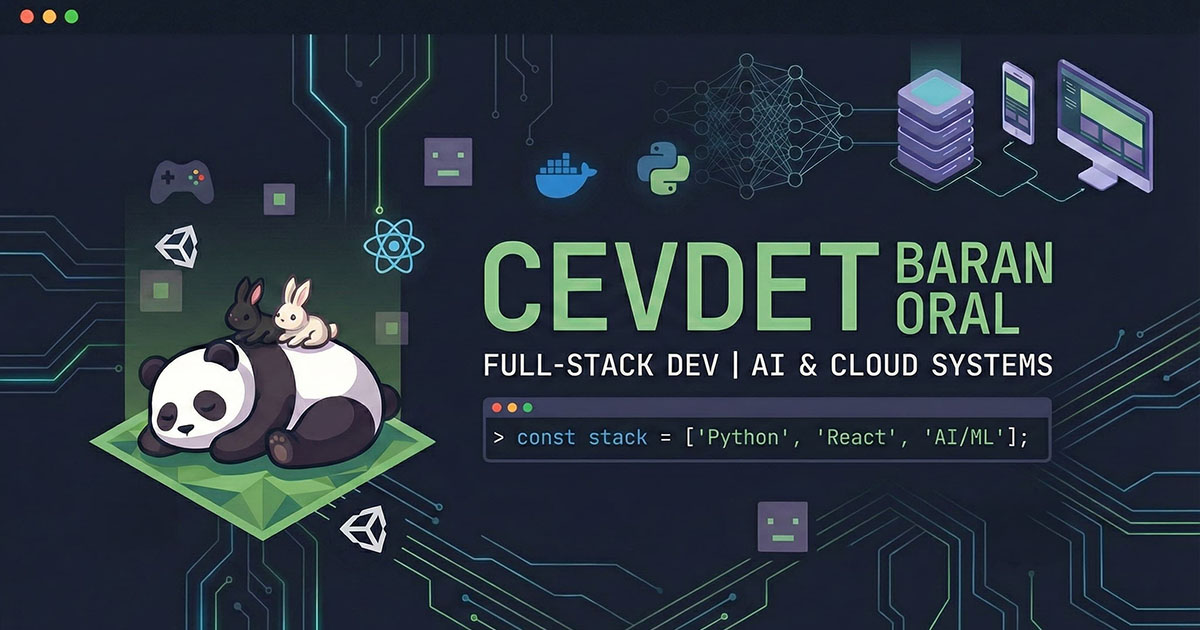
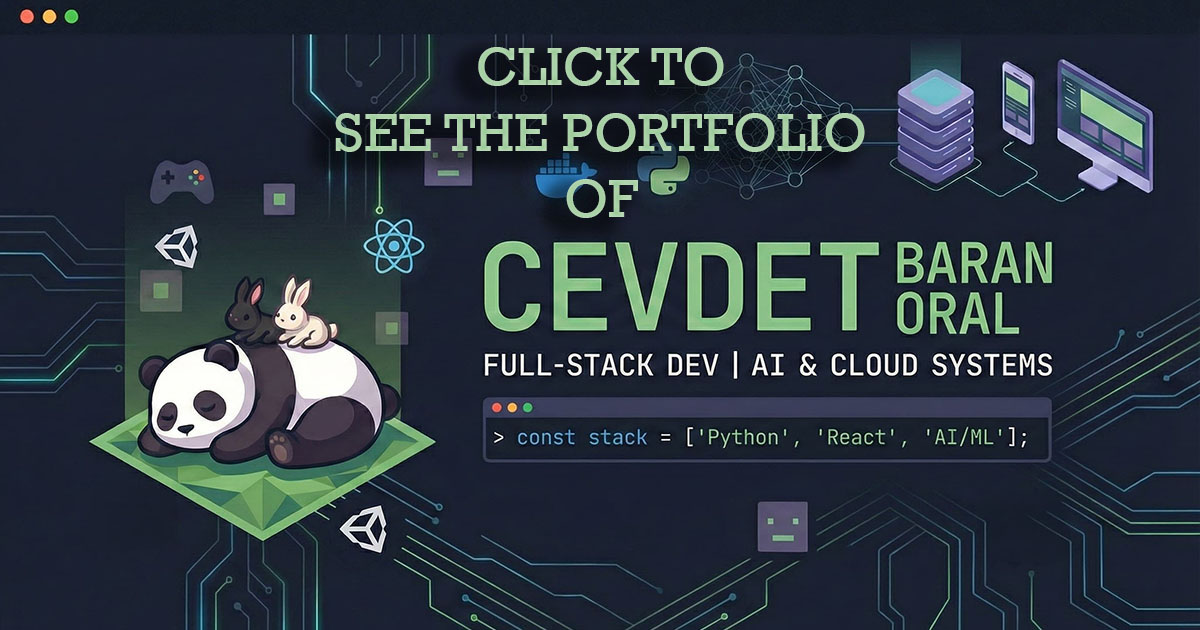
final adjustments

Changed region(s): [[0.2467, 0.181, 0.74, 0.3619], [0.37, 0.0603, 0.6167, 0.1508]]

diff --git a/index.html b/index.html
@@ -29,13 +29,13 @@
     <!-- the big headline on social share cards -->
     <meta
       property="og:title"
-      content="Cevdet Baran Oral - Full-Stack Developer & Solution Architect"
+      content="Cevdet Baran Oral - Full-Stack Developer & Cloud Systems"
     />
 
     <!-- text that goes under the title when sharing -->
     <meta
       property="og:description"
-      content="SaaS platforms, AI products & cloud systems. React · Node.js · Python · AWS. Teknofest finalist, two degrees by 22, 26+ projects shipped."
+      content="Full-stack developer portfolio - SaaS, AI products, and cloud systems. React, Node.js, Python, AWS. Teknofest finalist, 26+ projects shipped."
     />
 
     <!-- the main preview image for shares -->
@@ -70,7 +70,7 @@
     <!-- title for twitter cards -->
     <meta
       name="twitter:title"
-      content="Cevdet Baran Oral - Full-Stack Developer & Solution Architect"
+      content="Cevdet Baran Oral - Full-Stack Developer & Cloud Systems"
     />
 
     <!-- short snippet for twitter -->
